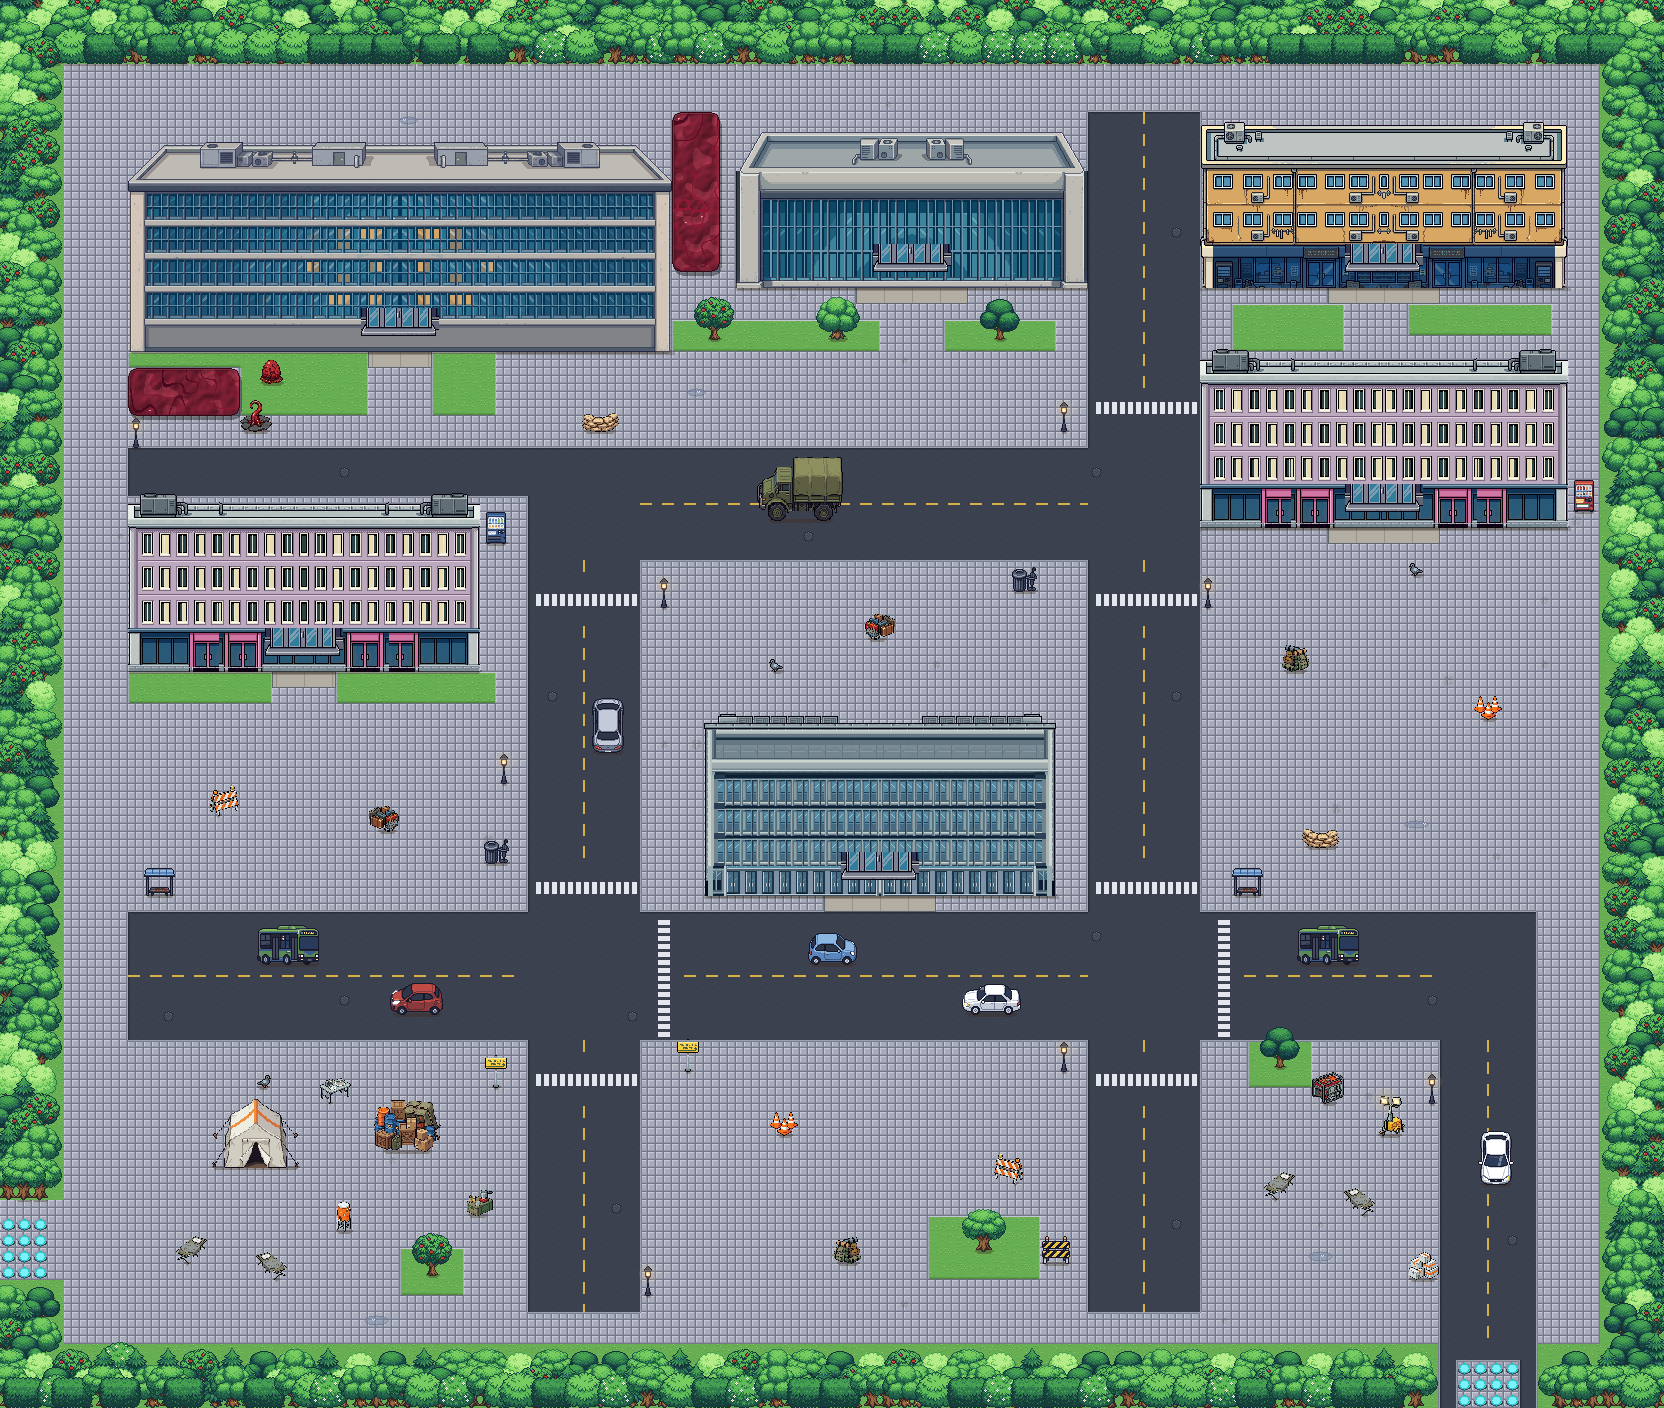
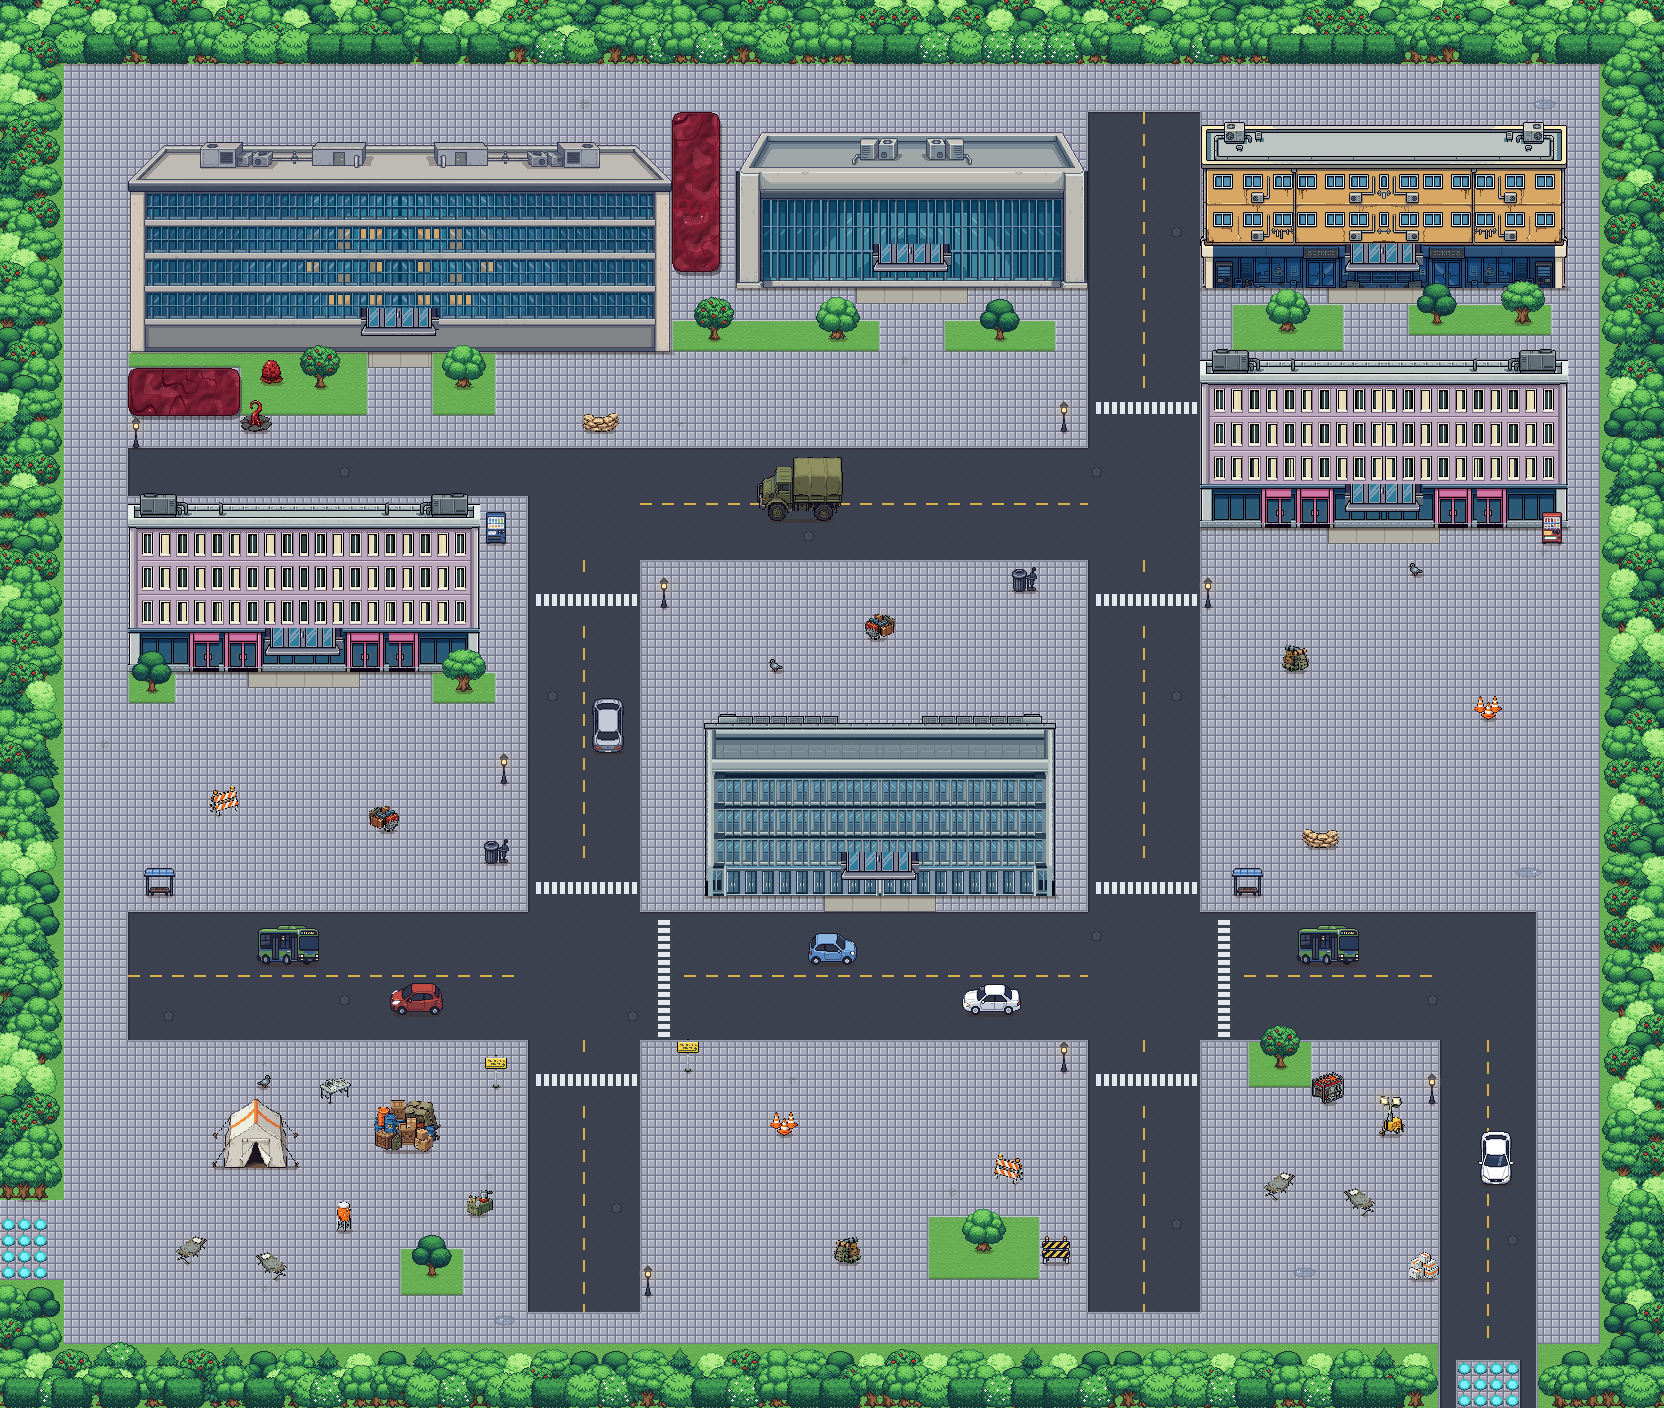
Karten 52/53: Bäume vor Gebäuden (nur Fuß prüfen), Ladentüren frei, keine Bordsteinecken unter der Masse
Claude-Session: https://claude.ai/code/session_01SaoYHKhnro4LFcPJqjaPsq

diff --git a/tools/karte53_objekte.py b/tools/karte53_objekte.py
@@ -140,7 +140,9 @@ def main():
             if any(art2 not in ('wald',) and schnitt(r, tuple(rr), 2) for (*rr, art2) in rects):
                 return None
         elif pruefen:
-            if any(schnitt(r, tuple(rr), 2) for (*rr, art2) in rects) or any(schnitt(r, t_, 0) for t_ in tps):
+            fuss_r = (r[0], max(r[1], r[3] - T + 1), r[2], r[3])           # vor Gebaeuden zaehlt nur der Fuss
+            if any(schnitt(fuss_r, tuple(rr), -1) if art2 == 'gebaeude' else schnitt(r, tuple(rr), 2) for (*rr, art2) in rects) or \
+                    any(schnitt(r, t_, 0) for t_ in tps):
                 return None
             # ganzes Bildrechteck auf erlaubtem Boden (untere zwei Reihen; liegende ganz) - Pruefliste K44
             ry0 = r[1] // T if (opt or {}).get('liegend') else max(r[1] // T, r[3] // T - 1)
@@ -177,6 +179,24 @@ def main():
         if not setze('geb/' + n_, (x0 + x1 + 1) * T / 2.0, (y1 + 1) * T - 1, {'gebaeude': True, 'vorplatz': True},
                      art='gebaeude', pruefen=False):
             print('Gebaeude nicht gesetzt:', n_)
+    # Seitentueren (rosa Ladentueren) der gesetzten Gebaeude: Beet davor wird Gehweg (Eingaenge frei, Pruefliste K35)
+    zeilen = [list(z) for z in cls]
+    for o in [o for o in objekte if o['basis'].startswith('geb/')]:
+        sp_ = np.array(Image.open(os.path.join(OBJ, o['datei'])).convert('RGBA')).astype(int)
+        u = sp_[-24:]
+        rosa = (u[..., 3] > 0) & (u[..., 0] > 170) & (u[..., 1] < 120) & (u[..., 2] > 100)
+        spalten = np.nonzero(rosa.sum(0) >= 3)[0]
+        if not len(spalten):
+            continue
+        fy_ = (o['y'] + o['fuss']) // T
+        tx_ = sorted({(o['x'] + c) // T for c in spalten})
+        for tx in tx_:
+            for ty in range(fy_ + 1, fy_ + 5):
+                if 0 <= ty < rows and zeilen[ty][tx] == 'n':
+                    zeilen[ty][tx] = 'k'
+    cls = [''.join(z) for z in zeilen]
+    lay['klassen'] = cls
+    json.dump(lay, open(os.path.join(KARTE, 'layout.json'), 'w'), indent=0)
     # ---------------------------------------------------------------- Baeume auf den Beeten (Stamm auf der Beetmitte)
     gk = np.array([list(z) for z in cls])
     import karte43_layout as k43

diff --git a/tools/karte52_objekte.py b/tools/karte52_objekte.py
@@ -142,7 +142,9 @@ def main():
             if any(art2 not in ('wald',) and schnitt(r, tuple(rr), 2) for (*rr, art2) in rects):
                 return None
         elif pruefen:
-            if any(schnitt(r, tuple(rr), 2) for (*rr, art2) in rects) or any(schnitt(r, t_, 0) for t_ in tps):
+            fuss_r = (r[0], max(r[1], r[3] - T + 1), r[2], r[3])           # vor Gebaeuden zaehlt nur der Fuss
+            if any(schnitt(fuss_r, tuple(rr), -1) if art2 == 'gebaeude' else schnitt(r, tuple(rr), 2) for (*rr, art2) in rects) or \
+                    any(schnitt(r, t_, 0) for t_ in tps):
                 return None
             # ganzes Bildrechteck auf erlaubtem Boden (untere zwei Reihen; liegende ganz) - Pruefliste K44
             ry0 = r[1] // T if (opt or {}).get('liegend') else max(r[1] // T, r[3] // T - 1)
@@ -184,7 +186,7 @@ def main():
     for (n_, tx, ty, sp) in (('reaper/wrack', 17, 30, False), ('reaper/wrack', 47, 38, True), ('reaper/wrack', 77, 40, False),
                              ('reaper/wrack', 28, 74, True), ('k18a/02', 60, 37, False), ('k18a/05', 14, 68, True)):
         kachel(n_, tx + P, ty + P, {}, sp, klassen='a', weit=2)
-    for (n_, tx, ty, sp) in (('reaper/sperre', 21, 28, False), ('reaper/sperre', 28, 28, True), ('reaper/sperre', 55, 46, False),
+    for (n_, tx, ty, sp) in (('reaper/sperre', 21, 28, False), ('reaper/sperre', 31, 23, True), ('reaper/sperre', 55, 46, False),
                              ('reaper/sperre', 59, 58, True), ('reaper/block', 10, 12, False), ('reaper/block', 66, 63, True),
                              ('reaper/schutt', 36, 20, False), ('reaper/schutt', 13, 55, True), ('reaper/schutt', 70, 25, False),
                              ('reaper/fass', 25, 16, False), ('reaper/laterne_kaputt', 33, 66, False),

diff --git a/tools/karte52_bauen.py b/tools/karte52_bauen.py
@@ -329,7 +329,7 @@ def bauen(frame=None, speichern=True):
     Wp, Hp = cols * T, rows * T
     kl = np.array([list(r) for r in lay['klassen']])
     a = k18.textur('g', cols, rows)                                   # Gehwegplatten
-    asph_k = np.isin(kl, ['a', 'x'])
+    asph_k = np.isin(kl, ['a', 'x', 'r', 'h'])                      # unter der Masse liegt Asphalt (keine Bordsteinecken)
     asphalt = gross(asph_k)
     a[asphalt] = k18.textur('s', cols, rows)[asphalt]
     for kk, art, f in (('q', 'v', (1.0, 1.0, 0.95)), ('b', 'k', (1.16, 1.04, 0.86)), ('k', 'k', (1.0, 1.0, 1.0))):
